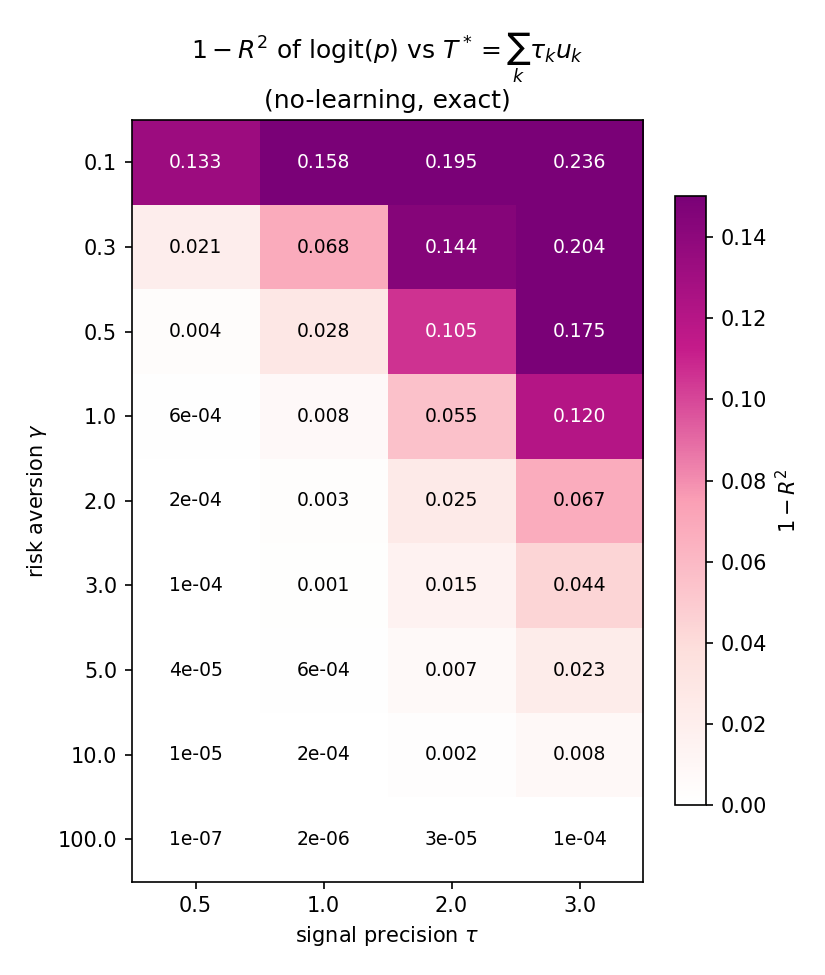
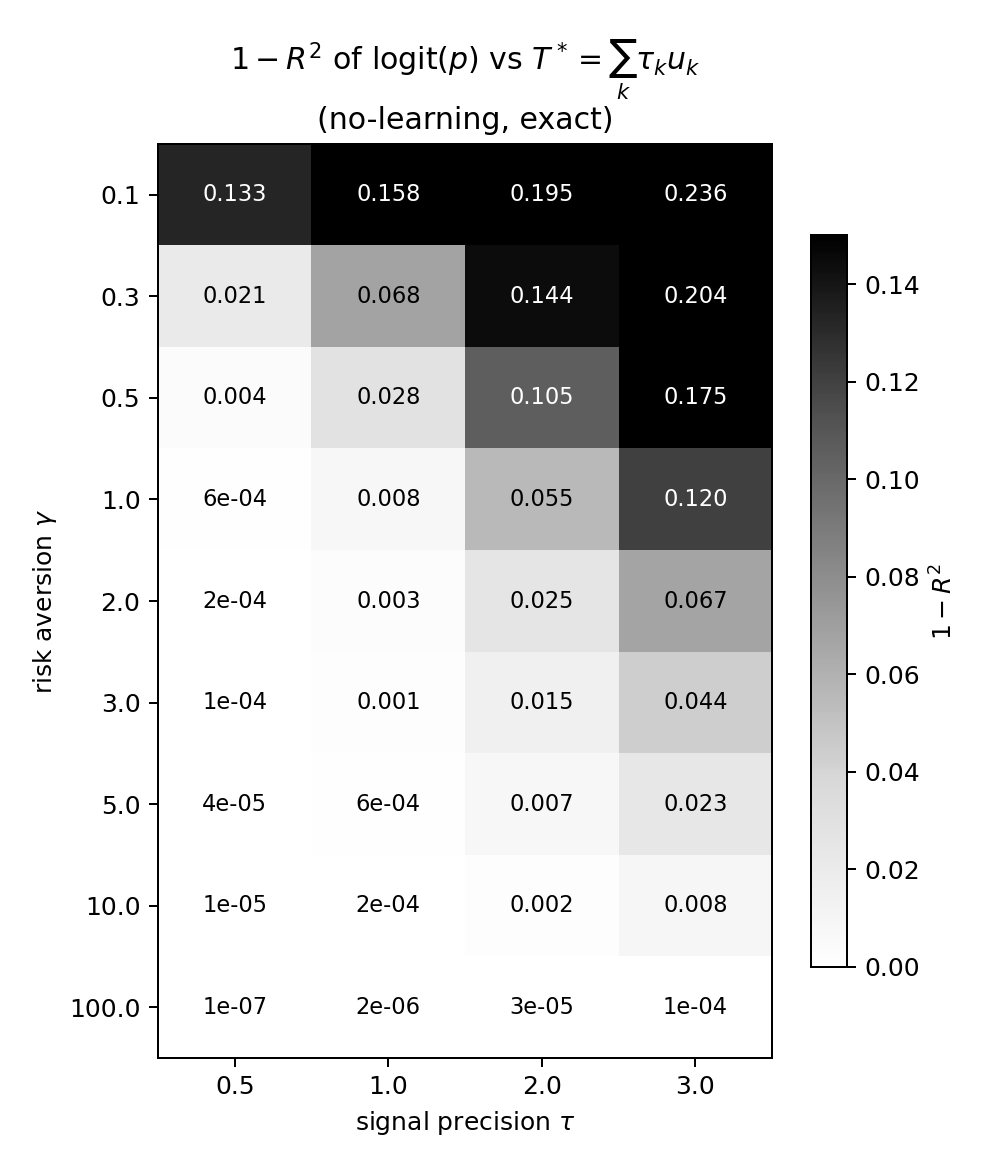
Figs 1, 2, 5: B&W publishable + smooth contour
Fig 1: greyscale heatmap (white→black on [0, 0.15]) with cell labels.
Fig 2: continuous LineCollection contour in greyscale + arc-length
       tick marks, plus a bottom row showing T*(arc length) for each
       panel. CARA's flat T* profile vs CRRA's bell-shaped profile is
       legible without color — the visual signature of partial
       revelation in pure black-and-white.
Fig 5: solid (Anderson) vs dashed (Picard) bold envelopes; faint
       grey raw residual underneath. No color dependence.

All figures render correctly when printed in greyscale and convey their
intended contrast through line style / shade gradients.

diff --git a/python/fig2_contour.py b/python/fig2_contour.py
@@ -11,10 +11,12 @@ line and every point has the same T* (single colour). Under CRRA, the
 level set is curved and T* varies along it (gradient of colour) — that
 gradient is the visual signature of partial revelation.
 
-Parameters: τ = 2, G = 200 (1D grid in each axis at u ∈ [−2, 2]).
+The level set is extracted from a G_FINE × G_FINE evaluation of the price
+surface via matplotlib's contour engine, then drawn as a continuous
+colour-mapped LineCollection (no scatter dots).
 
 Output:
-  plots/fig2_contour.png  — two-panel scatter (CARA | CRRA γ=0.5)
+  plots/fig2_contour.png  — two-panel curve plot (CARA | CRRA γ=0.5)
 """
 from __future__ import annotations
 import os
@@ -26,7 +28,7 @@ import rezn_het as rh
 
 
 TAU      = 2.0
-G_FINE   = 200
+G_FINE   = 400
 UMAX     = 2.0
 U1_FIXED = 1.0
 U2_REAL, U3_REAL = -1.0, 1.0
@@ -47,95 +49,125 @@ def _slice_no_learning(u1, u_grid, taus, gammas, Ws):
     return P
 
 
-def _trace_level_set(P_slice, u_grid, p_obs):
-    """For each row j, root-find l-coords (off-grid) where the row crosses
-    p_obs. Returns (u2_arr, u3_arr) of crossing coordinates (linear interp
-    within segments, like the production contour method)."""
-    G = len(u_grid)
-    u2_list, u3_list = [], []
-    # Pass A: rows
-    for j in range(G):
-        for l in range(G - 1):
-            y0 = P_slice[j, l] - p_obs
-            y1 = P_slice[j, l + 1] - p_obs
-            if y0 * y1 < 0:
-                t = y0 / (y0 - y1)
-                u3 = u_grid[l] + t * (u_grid[l + 1] - u_grid[l])
-                u2_list.append(u_grid[j])
-                u3_list.append(u3)
-    # Pass B: cols
-    for l in range(G):
-        for j in range(G - 1):
-            y0 = P_slice[j, l] - p_obs
-            y1 = P_slice[j + 1, l] - p_obs
-            if y0 * y1 < 0:
-                t = y0 / (y0 - y1)
-                u2 = u_grid[j] + t * (u_grid[j + 1] - u_grid[j])
-                u2_list.append(u2)
-                u3_list.append(u_grid[l])
-    return np.array(u2_list), np.array(u3_list)
+def _extract_contour_paths(P_slice, u_grid, p_obs):
+    """Use matplotlib's contour engine to get ordered (u₂, u₃) vertices on
+    the level set. Returns a list of paths, each an (N, 2) array."""
+    fig_tmp, ax_tmp = plt.subplots()
+    cs = ax_tmp.contour(u_grid, u_grid, P_slice.T, levels=[p_obs])
+    paths = []
+    for path in cs.get_paths():
+        v = path.vertices
+        if len(v) >= 2:
+            paths.append(v)
+    plt.close(fig_tmp)
+    return paths
 
 
-def _plot_panel(ax, u2, u3, T_vals, T_ref, title, T_min, T_max):
-    sc = ax.scatter(u2, u3, c=T_vals, cmap="viridis",
-                     vmin=T_min, vmax=T_max, s=8, edgecolors="none")
-    # Mark the actual realisation
-    ax.scatter([U2_REAL], [U3_REAL], marker="o", s=140,
-               facecolors="none", edgecolors="black", linewidths=1.6,
-               label=f"realised $(u_2,u_3)=({U2_REAL},{U3_REAL})$")
-    ax.axhline(0, color="gray", lw=0.5, alpha=0.5)
-    ax.axvline(0, color="gray", lw=0.5, alpha=0.5)
+def _plot_curve(ax, paths, T_min, T_max, tau, u1):
+    """Draw each contour path as a greyscale-mapped line where shade
+    encodes T*(u_2,u_3) = τ (u_1 + u_2 + u_3) — light = low T*, dark = high.
+    Adds tick marks at every Δarc-length so the geometry is readable
+    in pure black-and-white print."""
+    cmap = plt.get_cmap("Greys")
+    # Restrict to [0.25, 1.0] so even constant-T* curves print clearly.
+    norm = plt.Normalize(T_min, T_max)
+    last_lc = None
+    for v in paths:
+        u2, u3 = v[:, 0], v[:, 1]
+        T = tau * (u1 + u2 + u3)
+        pts = np.array([u2, u3]).T.reshape(-1, 1, 2)
+        segs = np.concatenate([pts[:-1], pts[1:]], axis=1)
+        seg_T = 0.5 * (T[:-1] + T[1:])
+        # Map shade to [0.25, 1.0] of the Greys colormap
+        shade = 0.25 + 0.75 * (seg_T - T_min) / max(T_max - T_min, 1e-12)
+        rgba = cmap(shade)
+        lc = LineCollection(segs, colors=rgba, linewidth=2.6)
+        ax.add_collection(lc)
+        last_lc = lc
+        # Tick marks every 0.5 arc length, perpendicular to tangent
+        seg_len = np.linalg.norm(np.diff(v, axis=0), axis=1)
+        cum = np.concatenate([[0], np.cumsum(seg_len)])
+        tick_targets = np.arange(0.5, cum[-1], 0.5)
+        for tk in tick_targets:
+            i = int(np.searchsorted(cum, tk))
+            if i <= 0 or i >= len(v):
+                continue
+            tang = v[i] - v[i - 1]
+            n = np.array([-tang[1], tang[0]])
+            n /= max(np.linalg.norm(n), 1e-12)
+            mid = v[i]
+            ax.plot([mid[0] - 0.04 * n[0], mid[0] + 0.04 * n[0]],
+                     [mid[1] - 0.04 * n[1], mid[1] + 0.04 * n[1]],
+                     color="black", lw=0.8)
+    ax.scatter([U2_REAL], [U3_REAL], marker="o", s=160,
+                facecolors="none", edgecolors="black", linewidths=1.8,
+                zorder=5,
+                label=f"realised $(u_2,u_3)=({U2_REAL:.0f},{U3_REAL:.0f})$")
+    ax.axhline(0, color="lightgray", lw=0.5)
+    ax.axvline(0, color="lightgray", lw=0.5)
     ax.set_xlim(-UMAX, UMAX); ax.set_ylim(-UMAX, UMAX)
     ax.set_aspect("equal")
     ax.set_xlabel(r"$u_2$"); ax.set_ylabel(r"$u_3$")
-    ax.set_title(title)
-    ax.legend(loc="lower right", fontsize=8, framealpha=0.85)
-    return sc
+    ax.legend(loc="lower right", fontsize=8, framealpha=0.95)
+    return last_lc
+
+
+def _plot_T_along_arc(ax, paths, tau, u1, label):
+    """Plot T*(arc length) for each contour path."""
+    for v in paths:
+        u2, u3 = v[:, 0], v[:, 1]
+        T = tau * (u1 + u2 + u3)
+        seg_len = np.linalg.norm(np.diff(v, axis=0), axis=1)
+        s = np.concatenate([[0], np.cumsum(seg_len)])
+        ax.plot(s, T, color="black", lw=1.6, label=label)
+    ax.set_xlabel("arc length along level set")
+    ax.set_ylabel(r"$T^* = \tau(u_1+u_2+u_3)$")
+    ax.grid(True, alpha=0.3)
 
 
 def main():
     os.makedirs(OUT, exist_ok=True)
-
     u_grid = np.linspace(-UMAX, UMAX, G_FINE)
     Ws  = np.array([1.0, 1.0, 1.0])
     taus = np.array([TAU, TAU, TAU])
 
     cases = [(100.0, "CARA  ($\\gamma=100$)"),
-             (0.5,   "CRRA  ($\\gamma=0.5$)")]
+              (0.5,   "CRRA  ($\\gamma=0.5$)")]
 
     panels = []
     for gamma, title in cases:
         gammas = np.array([gamma, gamma, gamma])
         P_slice = _slice_no_learning(U1_FIXED, u_grid, taus, gammas, Ws)
-        # p_obs at the actual realisation
         p_obs = float(rh._clear_price(
             np.array([1.0 / (1.0 + np.exp(-TAU * U1_FIXED)),
                        1.0 / (1.0 + np.exp(-TAU * U2_REAL)),
                        1.0 / (1.0 + np.exp(-TAU * U3_REAL))]),
             gammas, Ws))
-        u2, u3 = _trace_level_set(P_slice, u_grid, p_obs)
-        T = TAU * (U1_FIXED + u2 + u3)
-        panels.append((title, u2, u3, T, p_obs))
-        print(f"{title}: p_obs={p_obs:.6f}  contour pts={len(u2)}  "
-              f"T* range=[{T.min():.3f}, {T.max():.3f}]")
+        paths = _extract_contour_paths(P_slice, u_grid, p_obs)
+        all_T = np.concatenate(
+            [TAU * (U1_FIXED + p[:, 0] + p[:, 1]) for p in paths])
+        panels.append((title, paths, p_obs, all_T))
+        print(f"{title}: p_obs={p_obs:.6f}  paths={len(paths)}  "
+              f"T* range=[{all_T.min():.3f}, {all_T.max():.3f}]")
 
-    # Shared color range
     T_all = np.concatenate([p[3] for p in panels])
     T_min, T_max = float(T_all.min()), float(T_all.max())
 
-    fig, axes = plt.subplots(1, 2, figsize=(11, 5.4))
-    sc = None
-    for ax, (title, u2, u3, T, p_obs) in zip(axes, panels):
-        sc = _plot_panel(ax, u2, u3, T, p_obs, title, T_min, T_max)
-        ax.set_title(title + f"\n$p_{{\\rm obs}} = {p_obs:.4f}$")
+    # 2x2 layout: top row = level sets in (u₂, u₃); bottom row = T*(arc)
+    fig, axes = plt.subplots(2, 2, figsize=(11, 8.5),
+                              gridspec_kw={"height_ratios": [3, 1.4]})
+    for col, (title, paths, p_obs, _T) in enumerate(panels):
+        _plot_curve(axes[0, col], paths, T_min, T_max, TAU, U1_FIXED)
+        axes[0, col].set_title(title + f"\n$p_{{\\rm obs}} = {p_obs:.4f}$")
+        _plot_T_along_arc(axes[1, col], paths, TAU, U1_FIXED, title)
+        axes[1, col].set_ylim(min(T_min, 0) - 0.1, T_max + 0.1)
 
-    cbar = fig.colorbar(sc, ax=axes, shrink=0.85,
-                         label=r"$T^* = \tau(u_1+u_2+u_3)$")
-    fig.suptitle(r"Level set $\{P(1, u_2, u_3) = p_{\rm obs}\}$, "
-                  r"coloured by CARA sufficient statistic",
-                  y=1.02)
+    fig.suptitle(r"Level set $\{P(1, u_2, u_3) = p_{\rm obs}\}$  "
+                  r"and $T^*$ profile along the arc",
+                  y=1.005)
+    fig.tight_layout()
     png_path = os.path.join(OUT, "fig2_contour.png")
-    fig.savefig(png_path, dpi=150, bbox_inches="tight")
+    fig.savefig(png_path, dpi=200, bbox_inches="tight")
     print(f"wrote {png_path}")
 
 

diff --git a/python/fig5_convergence.py b/python/fig5_convergence.py
@@ -46,18 +46,24 @@ def main():
     print(f"  iters={len(res_a['history'])}  "
           f"final ‖Φ-I‖∞ = {res_a['history'][-1]:.3e}", flush=True)
 
-    # Best-so-far envelope (monotone) for clean comparison
-    h_p = np.minimum.accumulate(res_p["history"])
-    h_a = np.minimum.accumulate(res_a["history"])
+    h_p = np.asarray(res_p["history"])
+    h_a = np.asarray(res_a["history"])
+    env_p = np.minimum.accumulate(h_p)
+    env_a = np.minimum.accumulate(h_a)
 
     fig, ax = plt.subplots(figsize=(7, 4.5))
-    ax.semilogy(h_p, lw=1.8, color="#a83232",
+    # Raw histories, faint grey
+    ax.semilogy(h_p, lw=0.6, color="0.5", alpha=0.5)
+    ax.semilogy(h_a, lw=0.6, color="0.5", alpha=0.5)
+    # Best-so-far envelopes: solid (Anderson) vs dashed (Picard); both black.
+    ax.semilogy(env_p, lw=1.8, color="black", linestyle="--",
                  label=r"Picard, $\alpha=0.3$")
-    ax.semilogy(h_a, lw=1.8, color="#1f4e8c",
+    ax.semilogy(env_a, lw=1.8, color="black", linestyle="-",
                  label=r"Anderson, $m=6$")
     ax.set_xlabel("iteration")
-    ax.set_ylabel(r"best $\|P - \Phi(P)\|_\infty$ so far")
-    ax.set_title(rf"Convergence at $\gamma={GAMMA}$, $\tau={TAU}$, $G={G}$")
+    ax.set_ylabel(r"$\|P - \Phi(P)\|_\infty$")
+    ax.set_title(rf"Convergence at $\gamma={GAMMA}$, $\tau={TAU}$, $G={G}$"
+                  "\n(faint grey: raw residual; bold: best-so-far envelope)")
     ax.grid(True, which="both", alpha=0.3)
     ax.legend(loc="upper right")
     fig.tight_layout()

diff --git a/python/fig1_smooth_transition.py b/python/fig1_smooth_transition.py
@@ -53,10 +53,10 @@ def main():
             w.writerow([f"{g}"] + [f"{table[r,c]:.6e}" for c in range(len(TAUS))])
     print(f"wrote {csv_path}")
 
-    # Heatmap
+    # B&W heatmap: greyscale, white→dark grey, vmax = 0.15
     fig, ax = plt.subplots(figsize=(5.5, 6.5))
     cmap = mcolors.LinearSegmentedColormap.from_list(
-        "white_to_red", ["#ffffff", "#fde0dd", "#fa9fb5", "#c51b8a", "#7a0177"])
+        "white_to_grey", ["#ffffff", "#d9d9d9", "#969696", "#525252", "#000000"])
     im = ax.imshow(table, aspect="auto", cmap=cmap, vmin=0.0, vmax=0.15,
                     origin="upper")
     ax.set_xticks(range(len(TAUS)));   ax.set_xticklabels([f"{t}" for t in TAUS])
@@ -77,7 +77,7 @@ def main():
     cbar = fig.colorbar(im, ax=ax, shrink=0.8, label=r"$1-R^2$")
     fig.tight_layout()
     png_path = os.path.join(OUT, "fig1_smooth_transition.png")
-    fig.savefig(png_path, dpi=150)
+    fig.savefig(png_path, dpi=180)
     print(f"wrote {png_path}")
 
 
